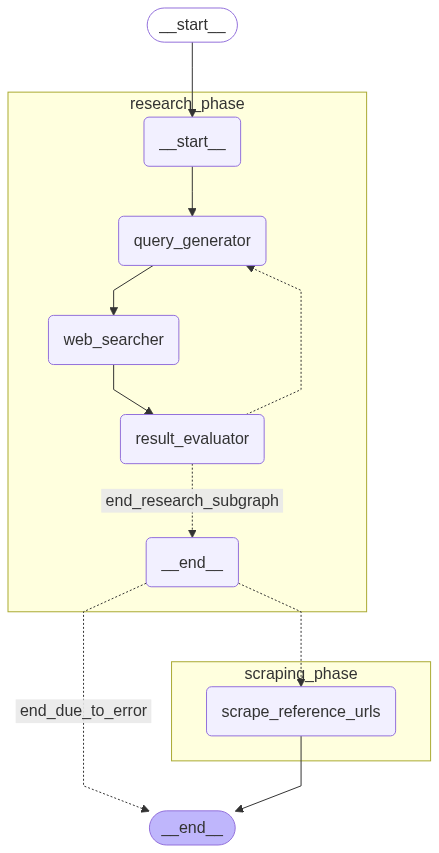
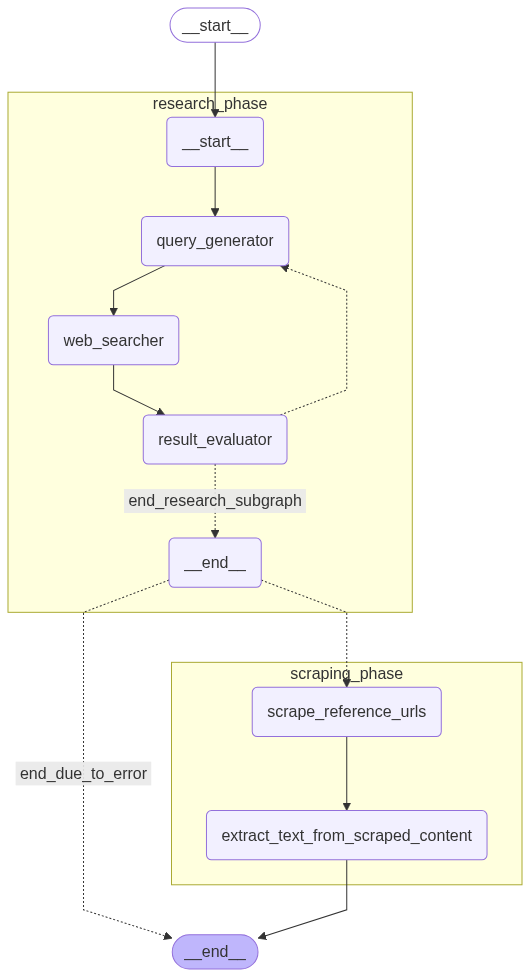
created a node in scraping subgraph to extract content from scraped html

diff --git a/app/agents/scrapping_agent_nodes.py b/app/agents/scrapping_agent_nodes.py
@@ -97,3 +97,63 @@ async def scrape_reference_urls_node(state: ResearchState) -> Dict[str, Any]:
         "status_message": status_msg,
         "error_message": None 
     }
+
+async def extract_text_from_scraped_content_node(state: ResearchState) -> Dict[str, Any]:
+    """
+    Node to extract clean text from previously scraped HTML content.
+    Populates `extracted_text_from_references`.
+    Uses BeautifulSoup for basic text extraction. For articles, consider `trafilatura`.
+    """
+
+    scraped_data = state.scraped_content_from_references
+
+    # Make sure we have scraped content to extract text from
+    if not scraped_data:
+        return {
+            "extracted_text_from_references": [],
+            "status_message": "No scraped content for text extraction."
+        }
+
+    extracted_texts: List[Dict[str, str]] = []
+    
+    for page in scraped_data:
+        if page.error or not page.content:
+            extracted_texts.append({
+                "url": page.url,
+                "extracted_text": "",
+                "title": page.title or "N/A",
+                "error": page.error or "No content to extract"
+            })
+            continue
+
+        try:
+            soup = BeautifulSoup(page.content, "lxml")
+            
+            # Basic text extraction: get all text from the body
+            body = soup.find("body")
+            if body:
+                # Get text and join paragraphs. Replace multiple newlines/spaces.
+                page_text = ' '.join(body.get_text(separator=' ', strip=True).split())
+            else:
+                page_text = ' '.join(soup.get_text(separator=' ', strip=True).split())
+
+            extracted_texts.append({
+                "url": page.url,
+                "title": page.title or "N/A",
+                "extracted_text": page_text
+            })
+            
+        except Exception as e:
+            extracted_texts.append({
+                "url": page.url,
+                "title": page.title or "N/A",
+                "extracted_text": "",
+                "error": f"Extraction error: {str(e)}"
+            })
+
+    status_msg = f"Extracted text from {len(extracted_texts)} sources."
+    
+    return {
+        "extracted_text_from_references": extracted_texts,
+        "status_message": status_msg
+    }

diff --git a/app/graph/subgraphs/scraping_graph.py b/app/graph/subgraphs/scraping_graph.py
@@ -2,17 +2,28 @@ from langgraph.graph import StateGraph, END
 
 from app.schemas.document_schemas import ResearchState
 from app.agents.scrapping_agent_nodes import (
-    scrape_reference_urls_node
+    scrape_reference_urls_node,
+    extract_text_from_scraped_content_node
 )
 
 scrapping_workflow = StateGraph(ResearchState)
 
 # Add nodes to the scrapping workflow
 scrapping_workflow.add_node("scrape_reference_urls", scrape_reference_urls_node)
+scrapping_workflow.add_node("extract_text_from_scraped_content", extract_text_from_scraped_content_node)
 
 scrapping_workflow.set_entry_point("scrape_reference_urls")
 
 # Define edges
-scrapping_workflow.add_edge("scrape_reference_urls", END)
+scrapping_workflow.add_edge("scrape_reference_urls", "extract_text_from_scraped_content")
+scrapping_workflow.add_edge("extract_text_from_scraped_content", END)
 
 compiled_scraping_subgraph = scrapping_workflow.compile()
+
+# Visualize the compiled scraping sub-graph
+try:
+    img_bytes = compiled_scraping_subgraph.get_graph(xray=True).draw_mermaid_png()
+    with open("scraping_subgraph.png", "wb") as f:
+        f.write(img_bytes)
+except Exception as e:
+    print(f"Could not generate graph visualization for scraping subgraph: {e}")

diff --git a/app/api/v1/router_document_generation.py b/app/api/v1/router_document_generation.py
@@ -66,11 +66,11 @@ async def start_document_generation_endpoint(
                 })
 
         response_data = DocumentGenerationResponse(
-            message="Document generation process initiated and initial research phase completed.",
-            initial_topic=final_master_graph_state_dict.get("initial_topic"),
-            generated_queries=generated_queries if generated_queries else None,
-            search_results_summary=search_summary if search_summary else None,
-            error_message=final_master_graph_state_dict.get("error_message")
+            message = "Document generation process initiated and initial research phase completed.",
+            initial_topic = final_master_graph_state_dict.get("initial_topic"),
+            generated_queries = generated_queries if generated_queries else None,
+            search_results_summary = search_summary if search_summary else None,
+            error_message = final_master_graph_state_dict.get("error_message")
         )
         return response_data
 
